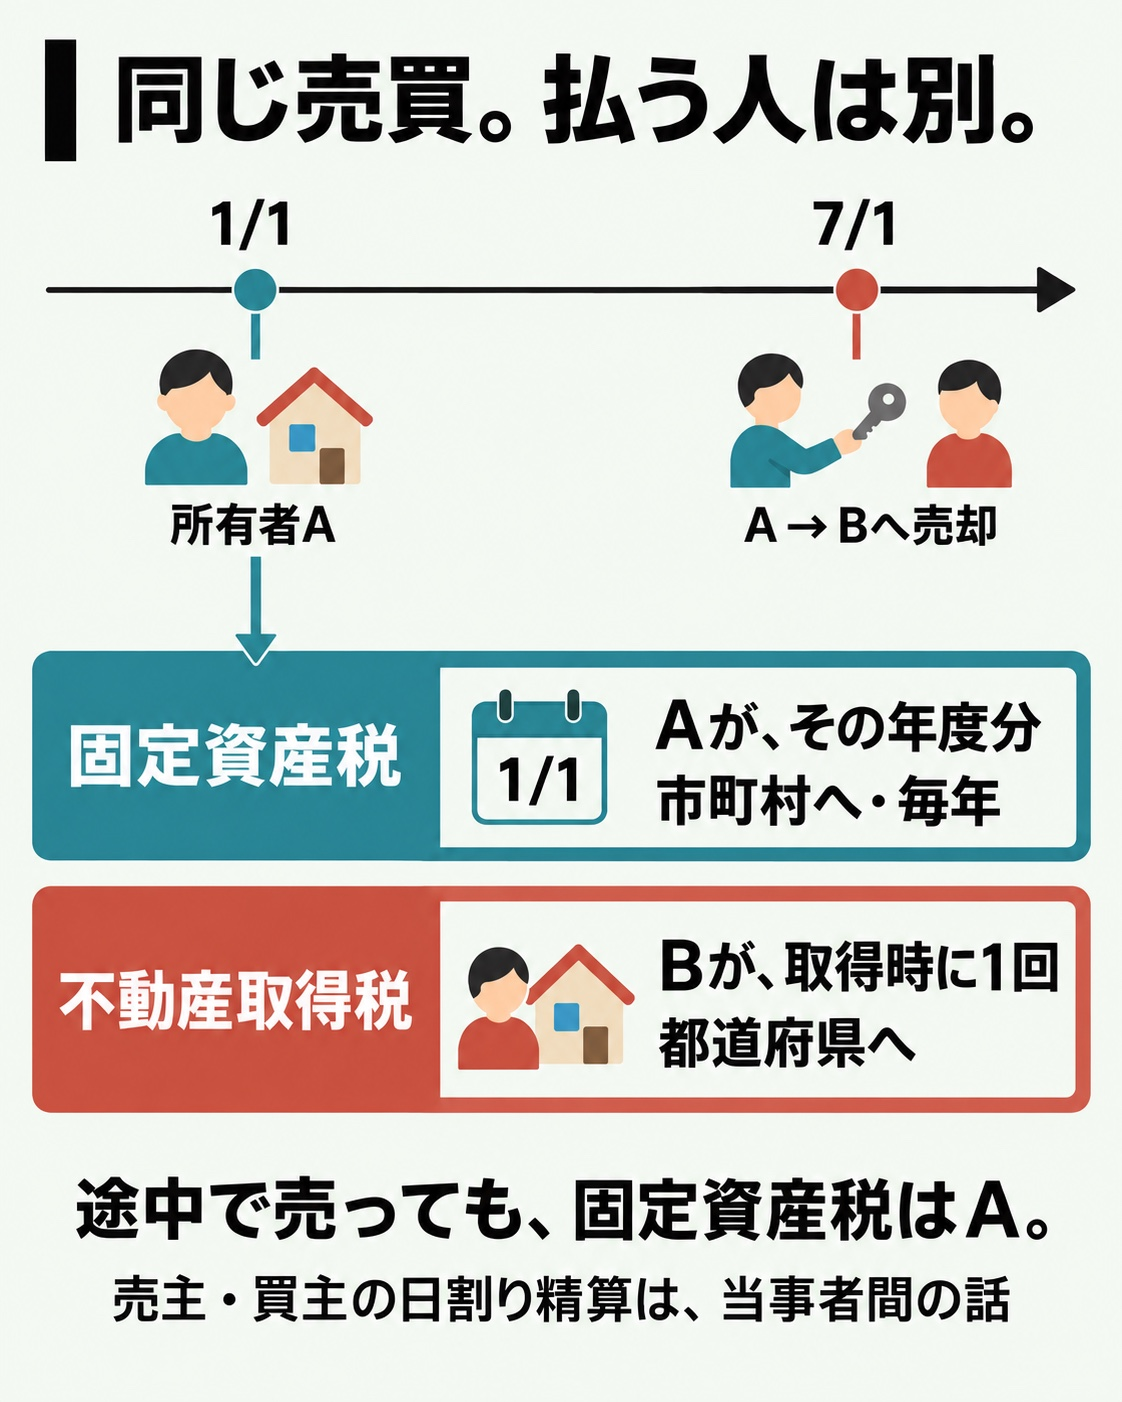
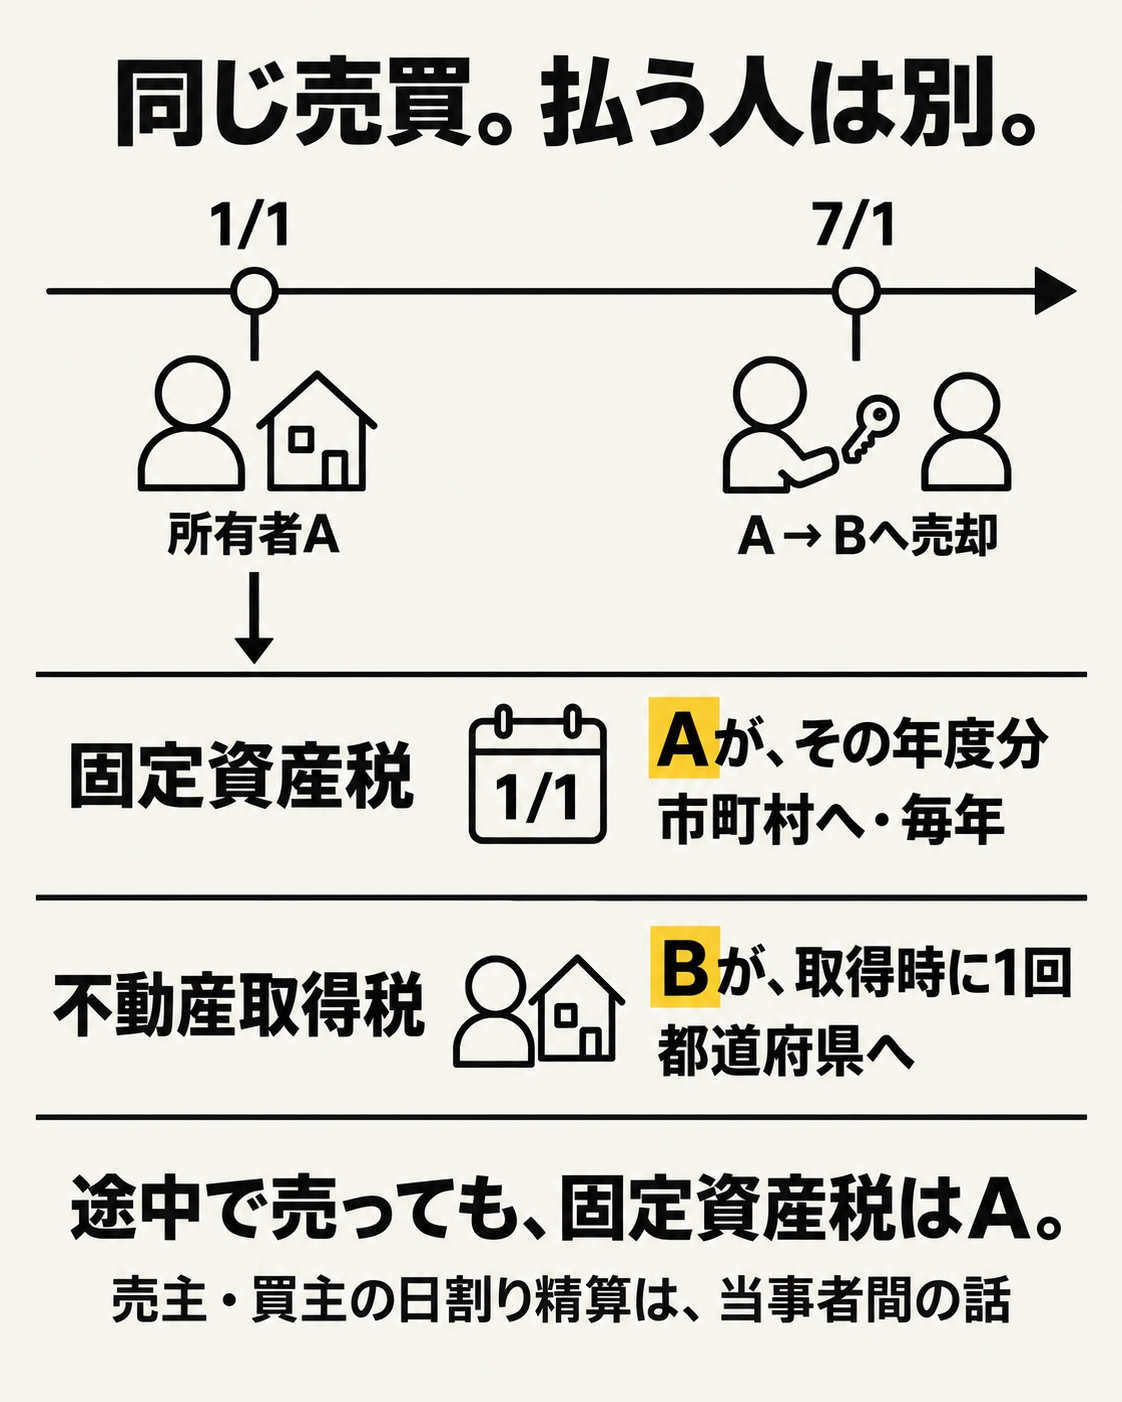
publish: align tax diagrams with minimal yellow style

diff --git a/plain-0ee08412cf31b48f.html b/plain-0ee08412cf31b48f.html
@@ -1628,35 +1628,35 @@ b,strong{font-weight:700}
 
 <figure class="zk" id="zk13">
 <figcaption><span class="no">図13</span><b>売った年の、元日に戻る。</b><button class="zk-go" data-go="51">スライド51 →</button></figcaption>
-<a href="takken-zukai-0ee08412/zk13.jpg" target="_blank" rel="noopener" aria-label="図13を拡大"><img src="takken-zukai-0ee08412/zk13.jpg" alt="2021年7月1日取得、2026年8月1日売却。2026年1月1日時点では4年6か月なので短期。5年以下は短期、5年超は長期。" loading="lazy" width="1122" height="1402"></a>
+<a href="takken-zukai-0ee08412/zk13.jpg?v=yellow1" target="_blank" rel="noopener" aria-label="図13を拡大"><img src="takken-zukai-0ee08412/zk13.jpg?v=yellow1" alt="2021年7月1日取得、2026年8月1日売却。2026年1月1日時点では4年6か月なので短期。5年以下は短期、5年超は長期。" loading="lazy" width="1122" height="1402"></a>
 <p class="zk-note"><b>「譲渡した年の1月1日」</b>に戻って数える。5年ちょうどは短期。10年超の軽減税率も、所有期間の判定日は同じ。</p>
 <details class="zk-sources"><summary>根拠・条件</summary><a href="https://www.nta.go.jp/taxes/shiraberu/taxanswer/joto/3208.htm" target="_blank" rel="noopener">国税庁：長期・短期</a> ／ <a href="https://www.nta.go.jp/taxes/shiraberu/taxanswer/joto/3305.htm" target="_blank" rel="noopener">軽減税率</a></details>
 </figure>
 
 <figure class="zk" id="zk14">
 <figcaption><span class="no">図14</span><b>同じ売買。払う人は別。</b><button class="zk-go" data-go="49">スライド49 →</button></figcaption>
-<a href="takken-zukai-0ee08412/zk14.jpg" target="_blank" rel="noopener" aria-label="図14を拡大"><img src="takken-zukai-0ee08412/zk14.jpg" alt="1月1日の所有者Aが年度分の固定資産税を市町村へ。7月1日の買主Bが不動産取得税を都道府県へ。" loading="lazy" width="1122" height="1402"></a>
+<a href="takken-zukai-0ee08412/zk14.jpg?v=yellow1" target="_blank" rel="noopener" aria-label="図14を拡大"><img src="takken-zukai-0ee08412/zk14.jpg?v=yellow1" alt="1月1日の所有者Aが年度分の固定資産税を市町村へ。7月1日の買主Bが不動産取得税を都道府県へ。" loading="lazy" width="1122" height="1402"></a>
 <p class="zk-note">固定資産税の元日は<b>「誰が持っているか」</b>。譲渡所得の元日は<b>「何年持っていたか」</b>。</p>
 <details class="zk-sources"><summary>根拠・条件</summary><a href="https://www.city.yokohama.lg.jp/kurashi/koseki-zei-hoken/zeikin/y-shizei/koteishisan-toshikeikakuzei/koteishisan-toshikeikakuzei-shosai/kotei.html" target="_blank" rel="noopener">横浜市：固定資産税</a> ／ <a href="https://www.tax.metro.tokyo.lg.jp/shitsumon/real_estate/f" target="_blank" rel="noopener">東京都：不動産取得税</a></details>
 </figure>
 
 <figure class="zk" id="zk15">
 <figcaption><span class="no">図15</span><b>土地は入口。家は出口。</b><button class="zk-go" data-go="49">スライド49 →</button></figcaption>
-<a href="takken-zukai-0ee08412/zk15.jpg" target="_blank" rel="noopener" aria-label="図15を拡大"><img src="takken-zukai-0ee08412/zk15.jpg" alt="小規模住宅用地は1戸につき200平方メートルまで課税標準を6分の1。新築住宅は120平方メートル分まで税額を2分の1。" loading="lazy" width="1122" height="1402"></a>
+<a href="takken-zukai-0ee08412/zk15.jpg?v=yellow1" target="_blank" rel="noopener" aria-label="図15を拡大"><img src="takken-zukai-0ee08412/zk15.jpg?v=yellow1" alt="小規模住宅用地は1戸につき200平方メートルまで課税標準を6分の1。新築住宅は120平方メートル分まで税額を2分の1。" loading="lazy" width="1122" height="1402"></a>
 <p class="zk-note">住宅用地の200㎡を<b>超える部分は1/3</b>。新築住宅の減額は原則3年、3階建て以上の耐火・準耐火住宅は5年（通常の新築住宅特例）。</p>
 <details class="zk-sources"><summary>根拠・条件</summary><a href="https://www.city.yokohama.lg.jp/kurashi/koseki-zei-hoken/zeikin/y-shizei/koteishisan-toshikeikakuzei/koteishisan-toshikeikakuzei-shosai/tochitokurei.html" target="_blank" rel="noopener">横浜市：住宅用地</a> ／ <a href="https://www.city.yokohama.lg.jp/kurashi/koseki-zei-hoken/zeikin/y-shizei/koteishisan-toshikeikakuzei/koteishisan-toshikeikakuzei-shosai/kaoku-genmen/shinchikugengaku.html" target="_blank" rel="noopener">新築住宅</a></details>
 </figure>
 
 <figure class="zk" id="zk16">
 <figcaption><span class="no">図16</span><b>控除と軽減は一緒。買換えは別。</b><button class="zk-go" data-go="51">スライド51 →</button></figcaption>
-<a href="takken-zukai-0ee08412/zk16.jpg" target="_blank" rel="noopener" aria-label="図16を拡大"><img src="takken-zukai-0ee08412/zk16.jpg" alt="3000万円控除は所得から引く。10年超の軽減税率は率を下げ、控除と併用できる。買換えは課税を先送りし、両者と併用できない。" loading="lazy" width="1122" height="1402"></a>
+<a href="takken-zukai-0ee08412/zk16.jpg?v=yellow1" target="_blank" rel="noopener" aria-label="図16を拡大"><img src="takken-zukai-0ee08412/zk16.jpg?v=yellow1" alt="3000万円控除は所得から引く。10年超の軽減税率は率を下げ、控除と併用できる。買換えは課税を先送りし、両者と併用できない。" loading="lazy" width="1122" height="1402"></a>
 <p class="zk-note">控除は<b>最高3,000万円</b>。軽減税率の10年超は<b>家屋・敷地の両方</b>。買換えには「所有10年超＋居住10年以上」など別の要件がある。</p>
 <details class="zk-sources"><summary>根拠・条件</summary><a href="https://www.nta.go.jp/taxes/shiraberu/taxanswer/joto/3302.htm" target="_blank" rel="noopener">国税庁：3,000万円控除</a> ／ <a href="https://www.nta.go.jp/taxes/shiraberu/taxanswer/joto/3305.htm" target="_blank" rel="noopener">軽減税率</a> ／ <a href="https://www.nta.go.jp/taxes/shiraberu/taxanswer/joto/3355.htm" target="_blank" rel="noopener">買換え</a></details>
 </figure>
 
 <figure class="zk" id="zk17">
 <figcaption><span class="no">図17</span><b>貸すのは銀行。機構は買う。</b><button class="zk-go" data-go="54">スライド54 →</button></figcaption>
-<a href="takken-zukai-0ee08412/zk17.jpg" target="_blank" rel="noopener" aria-label="図17を拡大"><img src="takken-zukai-0ee08412/zk17.jpg" alt="フラット35買取型。銀行が利用者へ融資。銀行から機構へローン債権、機構から銀行へ買取代金が移る。" loading="lazy" width="1122" height="1402"></a>
+<a href="takken-zukai-0ee08412/zk17.jpg?v=yellow1" target="_blank" rel="noopener" aria-label="図17を拡大"><img src="takken-zukai-0ee08412/zk17.jpg?v=yellow1" alt="フラット35買取型。銀行が利用者へ融資。銀行から機構へローン債権、機構から銀行へ買取代金が移る。" loading="lazy" width="1122" height="1402"></a>
 <p class="zk-note">機構が買うのは<b>家ではなく、返してもらう権利</b>。直接融資は災害復興・住宅の防災、一定の賃貸住宅など、別枠の業務。</p>
 <details class="zk-sources"><summary>根拠・条件</summary><a href="https://www.jhf.go.jp/about/financial/join/outline_kaitori.html" target="_blank" rel="noopener">住宅金融支援機構：買取型</a> ／ <a href="https://www.jhf.go.jp/files/a/public/jhf/400345445.pdf" target="_blank" rel="noopener">融資業務</a></details>
 </figure>
